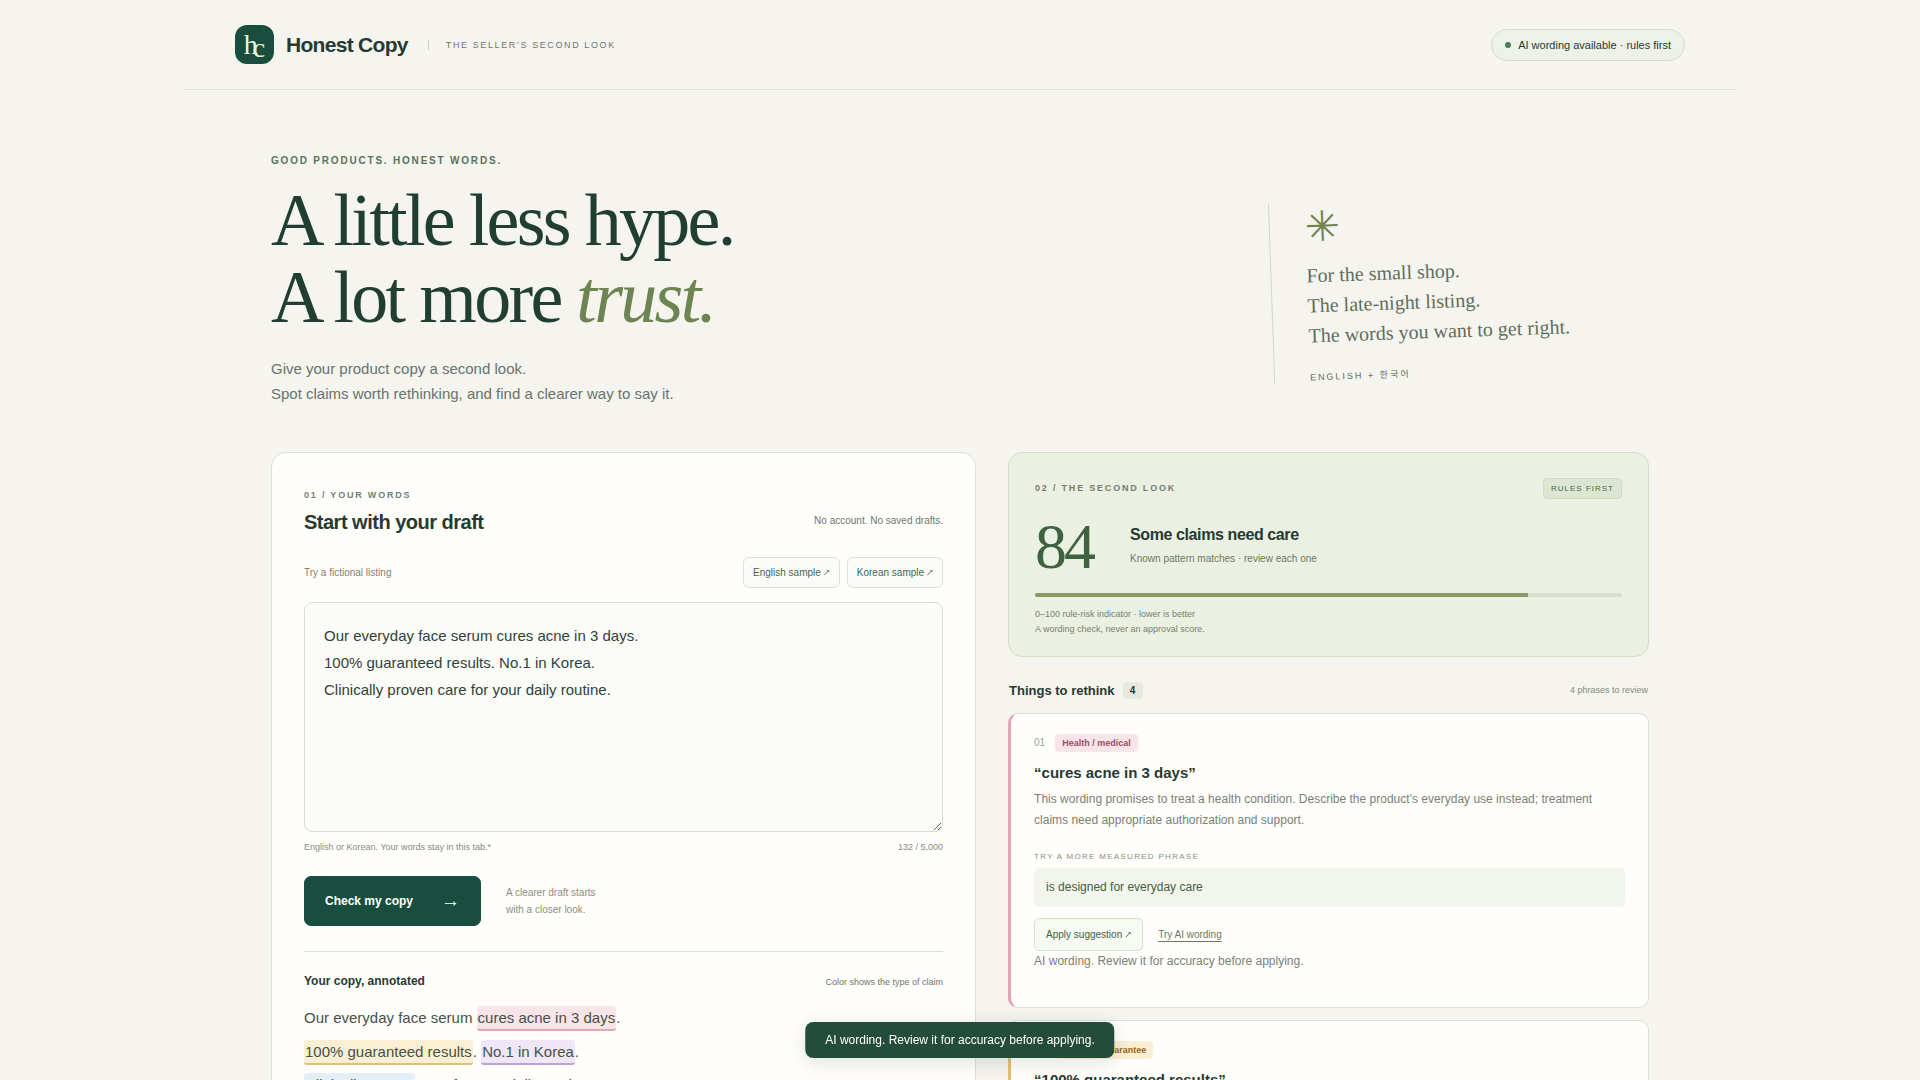
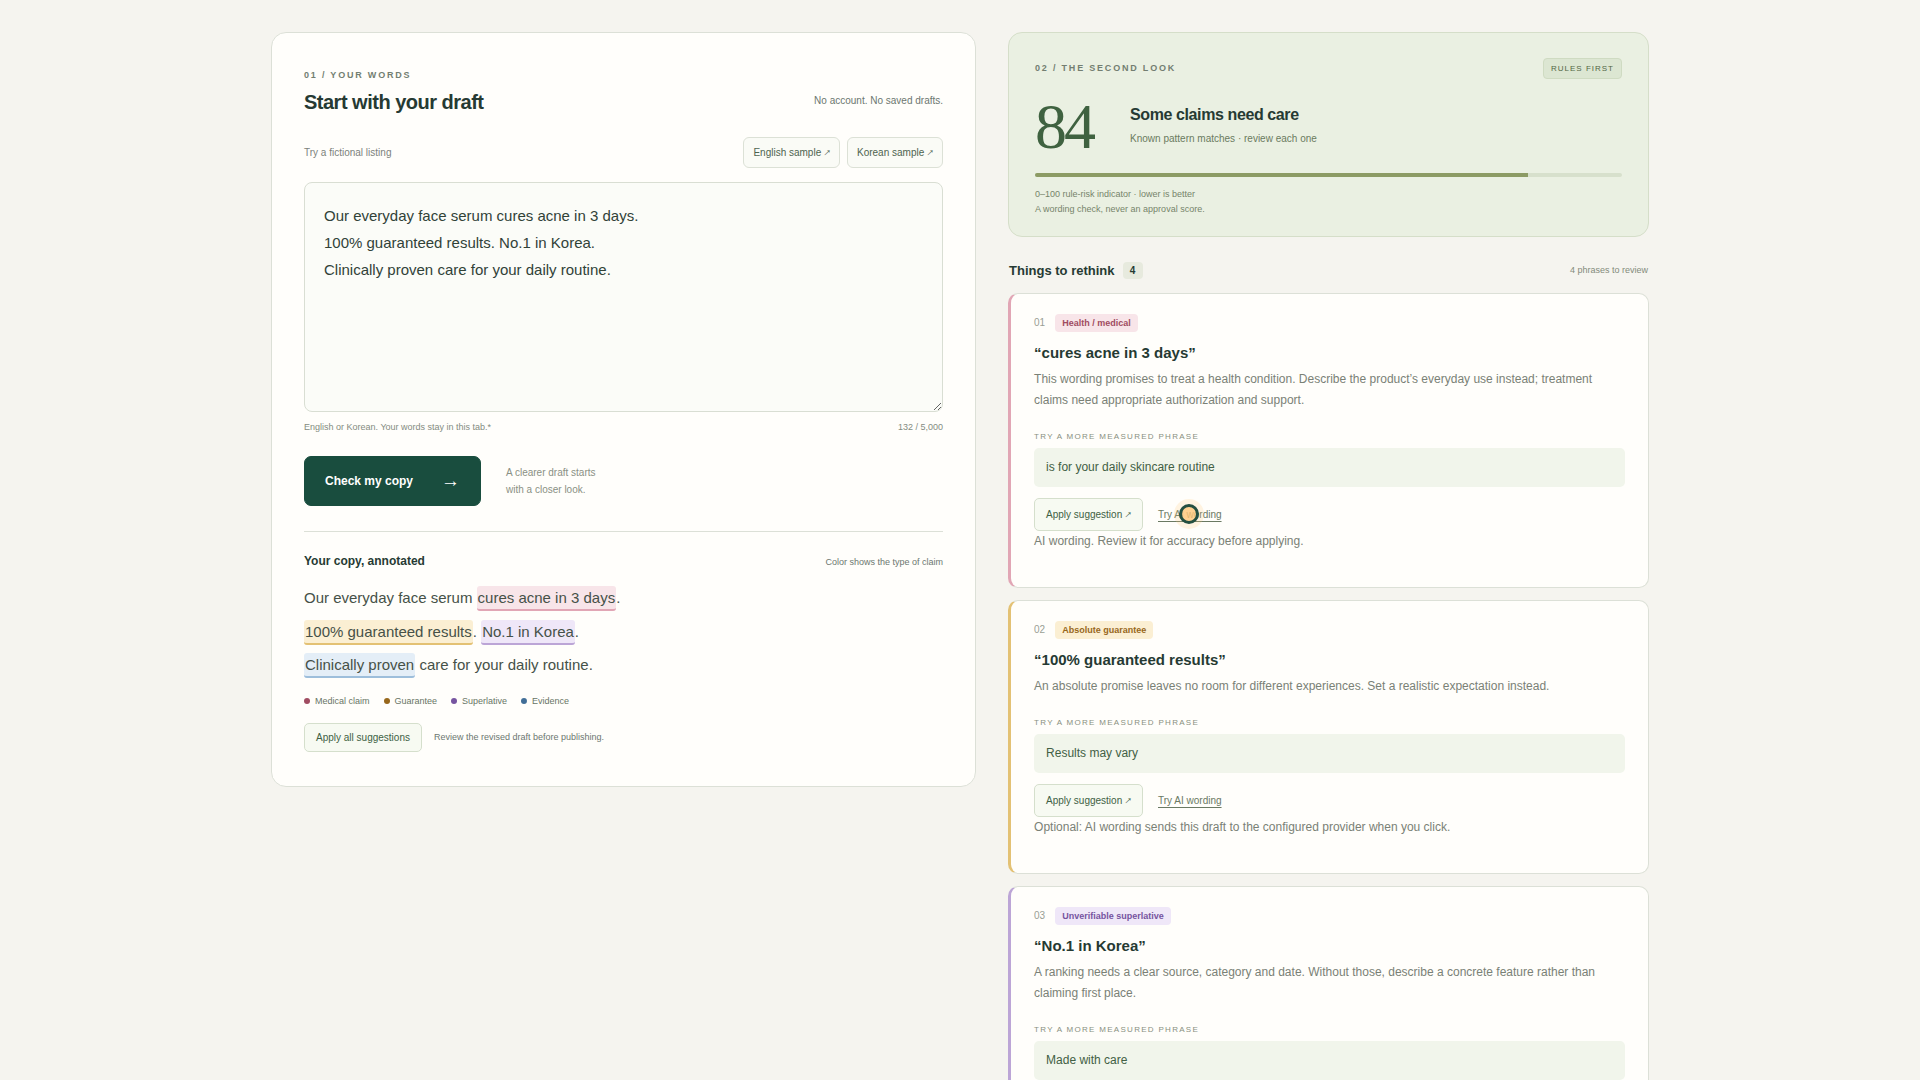
Polish contextual English and Korean AI rewrites and live captures

diff --git a/README.md b/README.md
@@ -58,7 +58,7 @@ npm run preview
 
 Checks use the built-in Node runner; no test framework or API key is required. CI runs tests, TypeScript checks and a production build on every push/PR.
 
-On this project's low-memory Mac/server setup, installs, builds and browser work run on Ubuntu `pilot`. For browser verification/capture, install Playwright on the machine doing that work, start the app, then run `npm run capture`. An existing installation can be reused with `PLAYWRIGHT_MODULE=/absolute/path/to/playwright/index.mjs` and `CHROMIUM_PATH=/absolute/path/to/chrome`. `APP_URL` selects a different app URL. Browser verification includes local API mode and explicitly mocked AI transport; neither is a claim that a real provider call succeeded. `node scripts/record.mjs` records the real 75-second core flow into `VIDEO_DIR` (default `/tmp/learnai-capture`). Encode the resulting WebM to MP4 on the recording machine using ffmpeg. Both scripts reuse the same Playwright environment variables.
+On this project's low-memory Mac/server setup, installs, builds and browser work run on Ubuntu `pilot`. For browser verification/capture, reuse Playwright with `PLAYWRIGHT_MODULE=/absolute/path/to/playwright/index.mjs` and optionally `CHROMIUM_PATH=/absolute/path/to/chrome`. `APP_URL` selects a different app URL. `npm run capture` includes local API mode and explicitly mocked AI transport; neither is a claim that a real provider call succeeded. On pilot, `node scripts/record.mjs` records production at 1920×1080 with smooth typing, asserts live provider results, and uses ffmpeg to save English/Korean review and apply clips plus a continuous review-to-apply hook in `VIDEO_DIR` (default `media`). It also refreshes screenshots and prints panel coordinates for video zooms. Generated clips are ignored by git; the small screenshots are committed.
 
 ## Optional AI wording
 
@@ -70,13 +70,13 @@ Copy `.env.example` to `.env` and set server-only values, then restart Vite:
 | `LLM_BASE_URL` | `https://api.tokenfactory.nebius.com/v1/` |
 | `LLM_MODEL` | `nvidia/Nemotron-3_5-Lightning` |
 
-The base and model follow the [official Nebius Token Factory docs](https://docs.tokenfactory.nebius.com). Other OpenAI-compatible providers can be configured through the same variables. The server calls `POST chat/completions` in JSON mode with a 256-token output budget; Nebius requests disable thinking with `chat_template_kwargs.enable_thinking=false` and a `/no_think` instruction. It reads only `choices[0].message.content`, strips any `<think>` blocks, and extracts JSON `{ "replacement": "..." }` even when wrapped in Markdown or short prose. Reasoning-only, truncated, malformed, unsafe or timed-out replies visibly fall back to local templates. Provider requests time out after 25 seconds; the browser allows 30 seconds. The mode switches automatically when the key exists. Numeric provider usage is returned for verification, without reasoning or raw provider metadata.
+The base and model follow the [official Nebius quickstart](https://docs.tokenfactory.nebius.com/quickstart) and [JSON-mode reference](https://docs.tokenfactory.nebius.com/ai-models-inference/json). Other OpenAI-compatible providers can be configured through the same variables. The server calls `POST chat/completions` in JSON mode with a 256-token output budget; Nebius requests disable thinking with `chat_template_kwargs.enable_thinking=false` and a `/no_think` instruction. English/Korean examples and explicit text before/after the selection guide subject agreement, particles and sentence endings. The prompt removes unsupported promises rather than replacing them with invented benefits or manufacturing claims. It reads only `choices[0].message.content`, strips any `<think>` blocks, and extracts JSON `{ "replacement": "..." }` even when wrapped in Markdown or short prose. Reasoning-only, truncated, malformed, wrong-language, unsafe or timed-out replies visibly fall back to local templates. Provider requests time out after 25 seconds; the browser allows 30 seconds. The mode switches automatically when the key exists. Numeric provider usage is returned for verification, without reasoning or raw provider metadata.
 
 ### Live mode
 
 Production uses server-only `LLM_BASE_URL`, `LLM_API_KEY`, and `LLM_MODEL` in Vercel. The public UI exposes availability only; **Try AI wording** makes the optional live request. Run `LIVE_CAPTURE=1 APP_URL=https://honest-copy.vercel.app npm run capture` on pilot to verify real English/Korean suggestions and capture 1920×1080 screenshots. This mode asserts `mode: live`; it never mocks provider responses.
 
-Verified on the production URL on October 16, 2026: English and Korean AI wording both returned `mode: live`, applied successfully, and lowered the rule-risk score from 84 to 56 with no browser runtime errors. The two calls used 375 input + 26 output = **401 tokens** according to Nebius usage responses; no fallback occurred. The four review/revision screenshots above show these real results. Tests cover honest fallback independently; 32 tests and the production build passed on pilot.
+Verified on the production URL on October 16, 2026: `node scripts/eval-live.mjs` passed four real English/Korean medical and guarantee rewrites, each in 0.69–1.40 seconds. Examples: “Our everyday face serum is for your daily skincare routine.” and “이 세럼은 일상적인 피부 관리에 사용하는 제품입니다.” Guarantee wording became “Results may vary” and “사용감은 개인에 따라 다를 수 있습니다”. All four returned `mode: live`, used 2,295 total provider tokens and lowered the rule-risk score. The script checks language, length, numbers, unsupported claim patterns and duplicate endings; semantic grounding and fluency still require reading the sentences. Tests cover honest fallback independently; 33 tests and the production build passed.
 
 Keys are never put in `VITE_` variables or browser code. AI requests send the draft to the configured provider only after the user clicks **Try AI wording**. The app has no analytics or copy storage. Basic per-instance request throttling and limits are for this PoC; stronger abuse controls are needed before exposing a funded API widely. Provider charges and limits depend on the owner's account; no services were purchased for this project.
 
